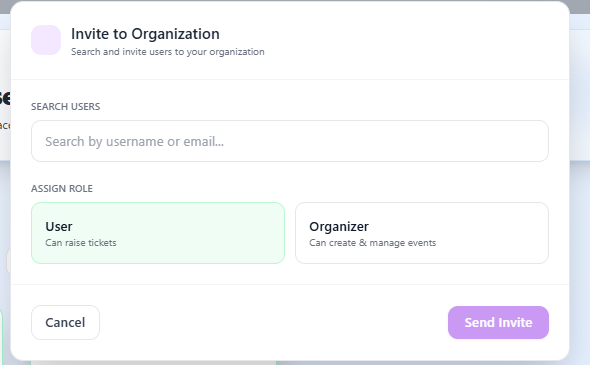
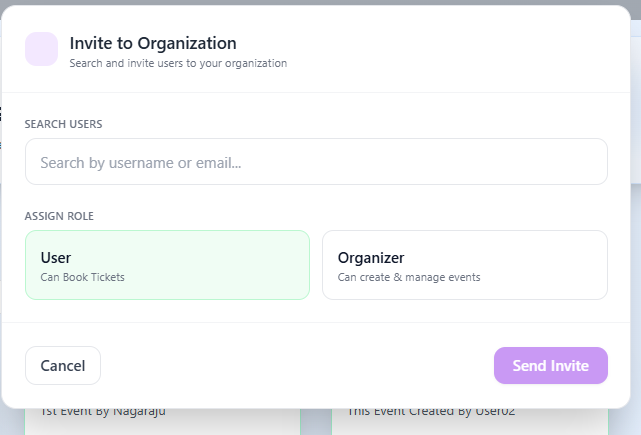
Updated readme

diff --git a/client/pages/media.js b/client/pages/media.js
@@ -368,7 +368,7 @@ export default function MediaPage({ keycloak }) {
                                                         } catch (e) {
                                                             setMessage('❌ Failed to load seats: ' + (e.response?.data?.error || e.message));
                                                         }
-                                                    }} className="px-3 py-2 bg-blue-100 text-blue-700 hover:bg-blue-200 rounded-xl text-sm font-semibold">Book</button>
+                                                    }} className="px-3 py-2 bg-blue-100 text-blue-700 hover:bg-blue-200 rounded-xl text-sm font-semibold">Book tickets</button>
                                                 </div>
                                             </div>
                                         );

diff --git a/client/components/InviteToOrgButton.js b/client/components/InviteToOrgButton.js
@@ -168,7 +168,7 @@ export default function InviteToOrgButton({ keycloak }) {
                                         className={`p-4 rounded-xl border text-left ${role !== "Organizer" ? 'bg-green-50 border-green-200' : 'bg-white border-gray-200'}`}
                                     >
                                         <div className="font-semibold">User</div>
-                                        <div className="text-xs text-gray-500">Can raise tickets</div>
+                                        <div className="text-xs text-gray-500">Can Book Tickets</div>
                                     </button>
                                     <button
                                         onClick={() => setRole("Organizer")}
